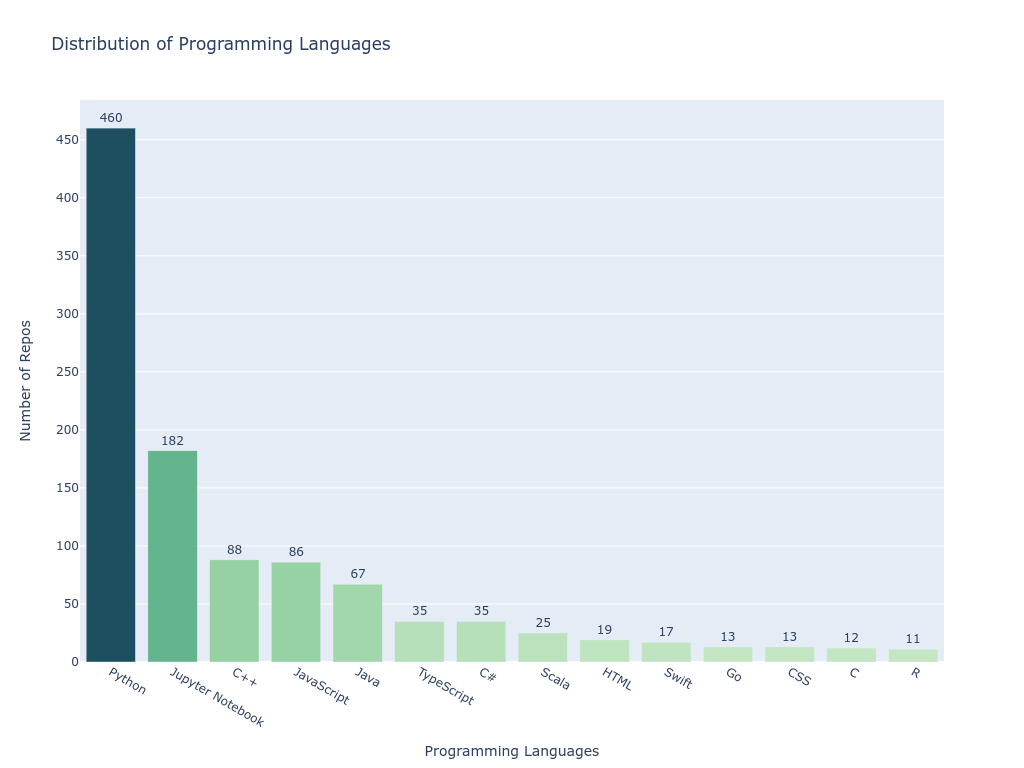
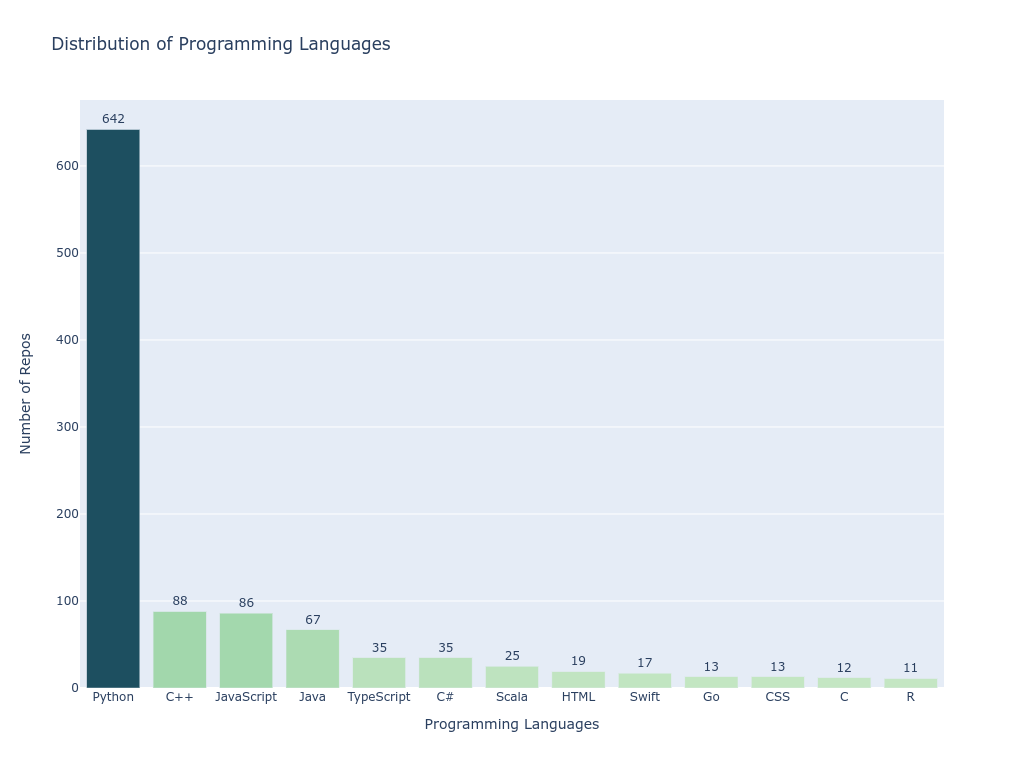
fix percentage symbol

diff --git a/analyzer.py b/analyzer.py
@@ -6,12 +6,11 @@ from datetime import datetime, timedelta
 from collections import Counter
 from dateutil import parser
 from config import Config
-import numpy as np
-import plotly.express as px
 import plotly.graph_objects as go
 import pandas as pd
 
 cfg = Config()
+
 
 def ngrams(s, n):
     s = s.lower()
@@ -231,6 +230,7 @@ class Fetcher:
 
         return stats
 
+
 class AnalysisPlotter:
     def __init__(self):
 
@@ -249,27 +249,27 @@ class AnalysisPlotter:
         return pd.io.json.json_normalize(data)
 
     def bar_plot_template(
-        self,
-        x_axis,
-        y_axis,
-        plot_title,
-        x_axis_title,
-        y_axis_title,
-        texttemplate="%{y}",
-        textposition="outside",
-        colorscale="Blugrn",
-        showscale=False,
-        width=None,
-        height=None):
+            self,
+            x_axis,
+            y_axis,
+            plot_title,
+            x_axis_title,
+            y_axis_title,
+            texttemplate="%{y}",
+            textposition="outside",
+            colorscale="Blugrn",
+            showscale=False,
+            width=None,
+            height=None):
 
         fig = go.Figure(data=go.Bar(
             x=x_axis,
             y=y_axis,
             texttemplate=texttemplate,
             textposition=textposition,
-            marker={"color":y_axis,
-                    "colorscale":colorscale,
-                    "showscale":showscale}
+            marker={"color": y_axis,
+                    "colorscale": colorscale,
+                    "showscale": showscale}
         ))
 
         fig.update_layout(
@@ -281,25 +281,26 @@ class AnalysisPlotter:
 
         # fig.show()
         if width and height:
-            fig.write_image(self.plots_dir+plot_title.replace(" ","_").replace("/","_").lower()+".png", width=width, height=height)
+            fig.write_image(self.plots_dir + plot_title.replace(" ", "_").replace("/", "_").lower() + ".png",
+                            width=width, height=height)
         else:
-            fig.write_image(self.plots_dir+plot_title.replace(" ","_").replace("/","_").lower()+".png")
+            fig.write_image(self.plots_dir + plot_title.replace(" ", "_").replace("/", "_").lower() + ".png")
 
     def scatter_plot_template(
-        self,
-        x_axis,
-        y_axis,
-        plot_title,
-        x_axis_title,
-        y_axis_title,
-        mode="lines+markers+text",
-        texttemplate="%{y}",
-        textposition="top right",
-        colorscale="Blugrn",
-        size=10,
-        showscale=False,
-        width=None,
-        height=None):
+            self,
+            x_axis,
+            y_axis,
+            plot_title,
+            x_axis_title,
+            y_axis_title,
+            mode="lines+markers+text",
+            texttemplate="%{y}",
+            textposition="top right",
+            colorscale="Blugrn",
+            size=10,
+            showscale=False,
+            width=None,
+            height=None):
 
         fig = go.Figure(data=go.Scatter(
             x=x_axis,
@@ -308,10 +309,10 @@ class AnalysisPlotter:
             textposition=textposition,
             texttemplate=texttemplate,
             marker={
-                "color":y_axis,
-                "colorscale":colorscale,
-                "size":size
-                }
+                "color": y_axis,
+                "colorscale": colorscale,
+                "size": size
+            }
         ))
 
         fig.update_layout(
@@ -323,20 +324,23 @@ class AnalysisPlotter:
 
         # fig.show()
         if width and height:
-            fig.write_image(self.plots_dir+plot_title.replace(" ","_").replace("/","_").lower()+".png", width=width, height=height)
+            fig.write_image(self.plots_dir + plot_title.replace(" ", "_").replace("/", "_").lower() + ".png",
+                            width=width, height=height)
         else:
-            fig.write_image(self.plots_dir+plot_title.replace(" ","_").replace("/","_").lower()+".png")
+            fig.write_image(self.plots_dir + plot_title.replace(" ", "_").replace("/", "_").lower() + ".png")
 
     def plot_all(self):
 
         filtered = self.repo_data[self.repo_data["filtered"] == True]
         unfiltered = self.repo_data[self.repo_data["filtered"] == False]
 
-        filtered["created_at"] = filtered["created_at"].apply(pd.to_datetime).apply(lambda x: x.tz_localize(None))
-        filtered["updated_at"] = filtered["updated_at"].apply(pd.to_datetime).apply(lambda x: x.tz_localize(None))
+        filtered.loc[:, "created_at"] = filtered["created_at"].apply(pd.to_datetime).apply(
+            lambda x: x.tz_localize(None))
+        filtered.loc[:, "updated_at"] = filtered["updated_at"].apply(pd.to_datetime).apply(
+            lambda x: x.tz_localize(None))
 
         # consider jupyter notebook as python
-        filtered[filtered["language"]=="Jupyter Notebook"]["language"] = "Python"
+        filtered.loc[filtered["language"] == "Jupyter Notebook", "language"] = "Python"
 
         # Distribution of programming languages over all repos
         grpby_languages = filtered.groupby(["language"]).size()
@@ -356,7 +360,7 @@ class AnalysisPlotter:
         binned = pd.cut(filtered["stargazers_count"], bins=bins).value_counts(sort=False)
 
         self.bar_plot_template(
-            [str(bins[i])+ "-" +str(bins[i+1]) for i in range(len(bins)-1)],
+            [str(bins[i]) + "-" + str(bins[i + 1]) for i in range(len(bins) - 1)],
             binned.values,
             "Distribution of Stars",
             "Stars in range",
@@ -367,7 +371,7 @@ class AnalysisPlotter:
         # Portion of DS/ML tool over all repositories
         grpby_org_not_filtered = unfiltered.groupby("owner.login").size()
         grpby_org_all = self.repo_data.groupby("owner.login").size()
-        portion = ((1 - (grpby_org_not_filtered/grpby_org_all)) * 100).sort_values(ascending=False)
+        portion = ((1 - (grpby_org_not_filtered / grpby_org_all)) * 100).sort_values(ascending=False)
         portion = portion[portion > 5.0].astype(int)
 
         self.scatter_plot_template(
@@ -395,15 +399,17 @@ class AnalysisPlotter:
 
         # Repositories updated over time
         labels = ["Last 15 days", "Last Month", "Last Six Months"]
-        y_axis = [filtered[filtered["updated_at"] > (datetime.now() - timedelta(days=i))].shape[0] for i in [15, 30, 180]]
-        y_axis = [int(val/filtered.shape[0]*100) for val in y_axis]
+        y_axis = [filtered[filtered["updated_at"] > (datetime.now() - timedelta(days=i))].shape[0] for i in
+                  [15, 30, 180]]
+        y_axis = [int(val / filtered.shape[0] * 100) for val in y_axis]
 
         self.bar_plot_template(
             labels,
             y_axis,
             "Repositories Updated over time",
             "Timespan",
-            "Percentage of Repos"
+            "Percentage of Repos",
+            texttemplate="%{y}%"
         )
 
         # Common Github ML_DS tasks
@@ -449,7 +455,6 @@ class AnalysisPlotter:
         )
 
 
-
 class Ranker:
     def __init__(self):
         self.readme_file = "README.md"
@@ -482,4 +487,4 @@ if __name__ == "__main__":
     analysis_plotter = AnalysisPlotter()
     stats = fetcher.fetch_data()
     ranker.re_rank(stats)
-    ap.plot_all()
+    analysis_plotter.plot_all()
